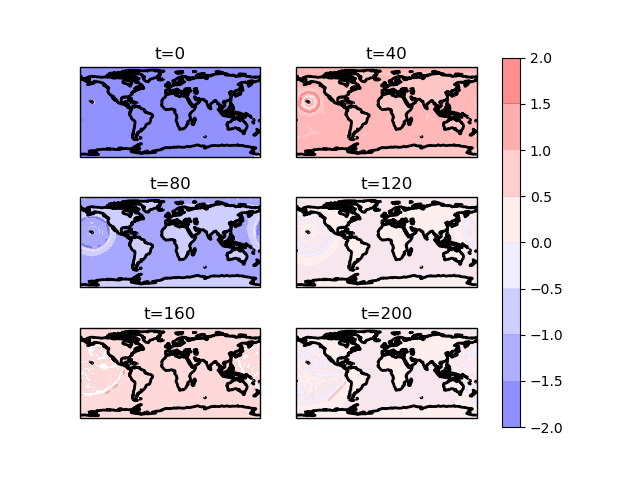
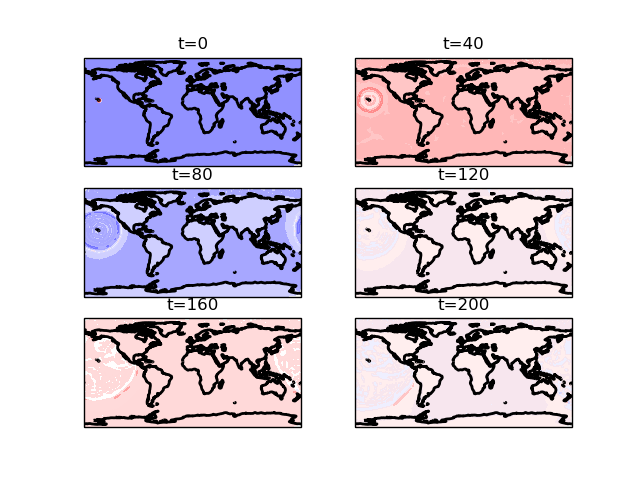
some cleanup

diff --git a/misc/plot_fields_from_mat.py b/misc/plot_fields_from_mat.py
@@ -22,7 +22,6 @@ for i in range(len(data_dir)-1):
     lats = (data['latitude'][0,:])*180./np.pi
     lons = np.where(180<lons,lons-360.,lons)
     z = data['zt']
-    print(np.min(lons),np.max(lons))
 
     times = np.arange(0, len(z), round(len(z) / 5.))
     fig, axs = plt.subplots(nrows=3, ncols=2,subplot_kw={'projection': ccrs.PlateCarree()})
@@ -30,7 +29,7 @@ for i in range(len(data_dir)-1):
         ax.coastlines(resolution='110m', color='black', linewidth=2)
         field = ax.tricontourf(lons, lats, z[t][:,0], cmap='bwr', alpha=.5, transform=ccrs.PlateCarree())
         ax.set_title("t="+str(t))
-    fig.colorbar(field,ax=axs.ravel().tolist())
+    #fig.colorbar(field,ax=axs.ravel().tolist())
     plt.savefig(proj+"/figs/fields/"+"zt_"+data_id+"_long="+str(lon_id)+"_lat="+str(lat_id)+".png")
 
 
